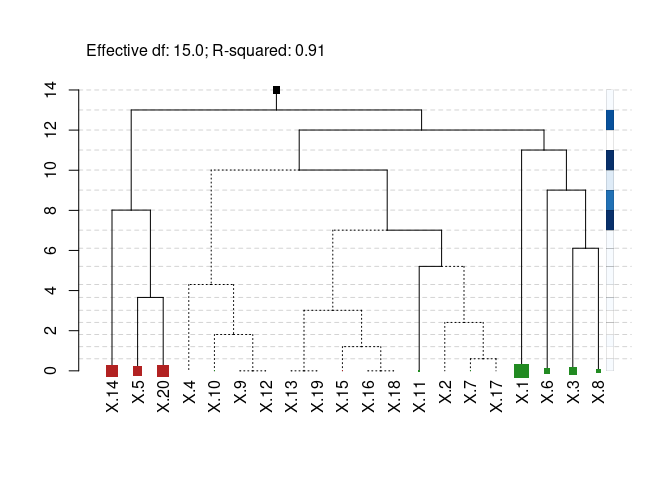
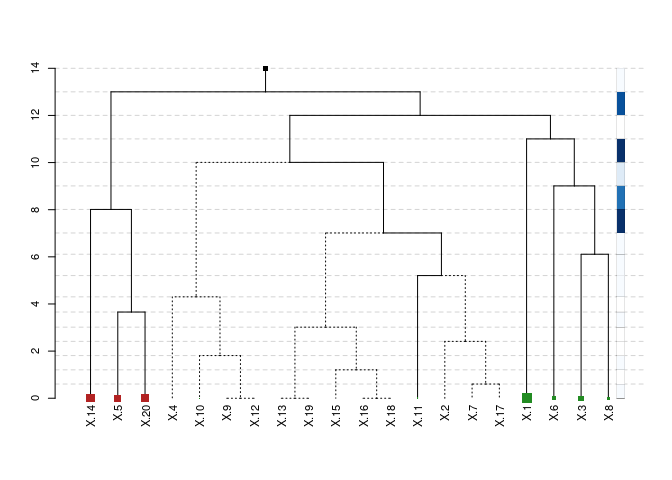
New README with plot

diff --git a/README.md b/README.md
@@ -1,22 +1,22 @@
 
-`hfr` is an R package that implements a novel graph-based regularized
-regression estimator: the **Hierarchical Feature Regression (HFR)**,
-which mobilizes insights from the domains of machine learning and graph
-theory to estimate robust parameters for a linear regression. The
-estimator constructs a supervised feature graph that decomposes
-parameters along its edges, adjusting first for common variation and
-successively incorporating idiosyncratic patterns into the fitting
-process.
+`hfr` is an `R` package that implements a novel graph-based regularized
+regression estimator: the **Hierarchical Feature Regression (HFR)**. The
+method mobilizes insights from the domains of machine learning and graph
+theory to estimate robust parameters for a linear regression,
+constructing a supervised feature graph that decomposes parameters along
+its edges. The graph adjusts first for common variation and successively
+incorporates idiosyncratic patterns into the fitting process.
 
 The result is group shrinkage of the parameters, where the extent of
 shrinkage is governed by a hyperparameter `kappa` that represents the
-size of the regression graph. At `kappa = 1` the regression is
+size of the feature graph. At `kappa = 1` the regression is
 unregularized resulting in OLS parameters. At `kappa < 1` the graph is
-shrunken, leading to a reduction in the effective model size.
+shrunken, reducing the effective model size and regularizing the
+regression.
 
 ## Usage: at a glance
 
-Fit a simple regression using simulated data from the `glmnet` package:
+Fit a linear regression using simulated data from the `glmnet` package:
 
 ``` r
 library(hfr)
@@ -34,8 +34,9 @@ print(mod)
     ##   Df R.squared kappa
     ## 1 16      0.91  0.75
 
-Next select an optimal `kappa` using LOOCV. The default in `cv.hfr` is a
-10-fold CV, hence `foldid` is passed:
+Cross-validation to select an optimal `kappa` can be done using
+`cv.hfr`. The default in `cv.hfr` is a 10-fold CV, however, we will pass
+`foldid` to use an LOOCV algorithm:
 
 ``` r
 cv <- cv.hfr(data$x, data$y, foldid = 1:nrow(data$x))
@@ -44,27 +45,29 @@ mod <- hfr(data$x, data$y, kappa = cv$best_kappa)
 
 The HFR offers useful tools for the visual exploration of the effect
 structure in the data. The package includes a custom dendrogram
-visualizing the optimal regression graph. See `?plot.hfr` for details:
+visualizing the optimal feature graph. See `?plot.hfr` for details:
 
 ``` r
-plot(mod, confidence_level = 0.95, max_leaf_size = 2)
+par(family = "sans", cex = 0.7)
+plot(mod, confidence_level = 0.95, max_leaf_size = 2, show_details = FALSE)
 ```
 
 <img src="README_files/figure-gfm/unnamed-chunk-3-1.png" style="display: block; margin: auto;" />
 
-The plot shows the optimal regression graph. The size of the tree
-represents the effective model size and reduces the model from `p = 20`
-variables to `14`. The plot conveys a wealth of additional information:
+The plot displays the optimal supervised feature graph. The size of the
+tree represents the effective model size and reduces the model from
+`p = 20` variables to `14`. The plot conveys a wealth of additional
+information:
 
--   Adjacent variables and variables that are merged low in the graph
-    have a similar explanatory effect on `y`
+-   Adjacent variables that are merged low in the graph have a similar
+    conditional explanatory effect on `y`
 -   The horizontal distance between levels indicates the weight of that
     level in the regression
 -   The size of the leaf nodes represents the coefficient size and the
     color represents the sign
 -   Dashed edges are statistically insignificant (see `?se.avg` for
     standard errors)
--   Darker shades in the sidebar signify a higher contribution of that
+-   Darker hues in the sidebar signify a higher contribution of that
     level to the total explained variance
 
 Standard functions such as `coef`, `predict` and `print` can be used to
